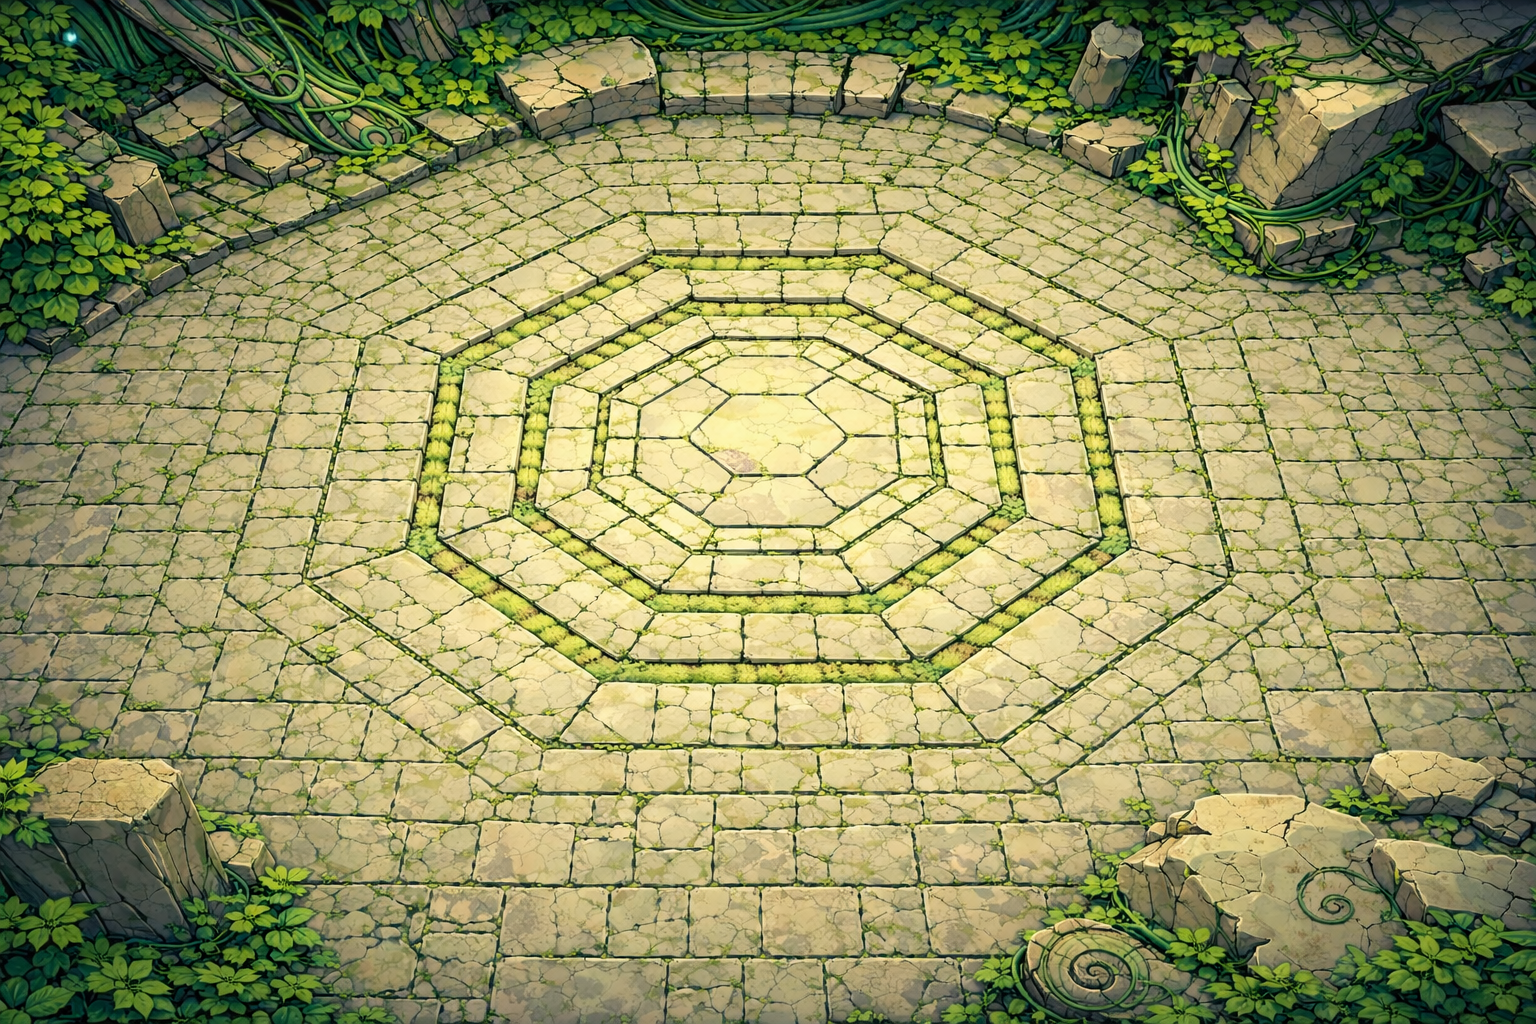
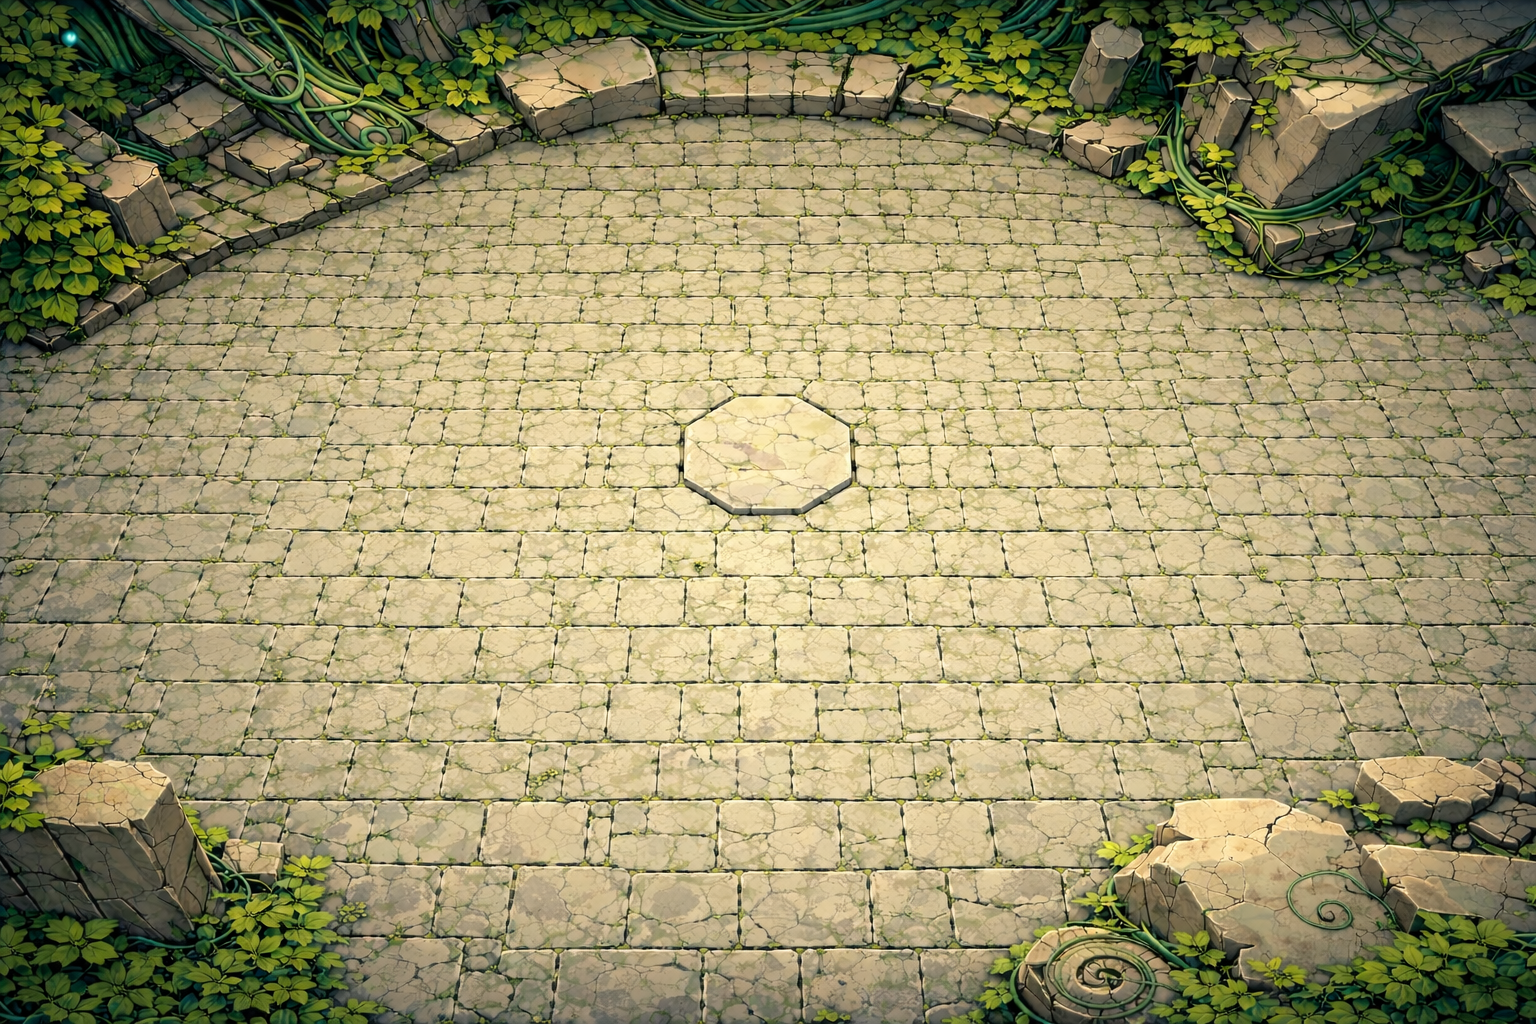
Checkpoint nice

diff --git a/src/three/ThreeBoardMode.js b/src/three/ThreeBoardMode.js
@@ -1,6 +1,9 @@
 import * as THREE from 'three';
 import { pieceCountState } from '../state/PieceCountState';
 
+import { Line2 } from 'three/examples/jsm/lines/Line2.js';
+import { LineMaterial } from 'three/examples/jsm/lines/LineMaterial.js';
+import { LineGeometry } from 'three/examples/jsm/lines/LineGeometry.js';
 /**
  * ThreeBoardMode
  * - Monta/desmonta un renderer de Three.js en un contenedor.
@@ -88,6 +91,15 @@ export default class ThreeBoardMode {
      *         black: { sprite: THREE.Sprite, canvas: HTMLCanvasElement, ctx: CanvasRenderingContext2D, texture: THREE.CanvasTexture } | null } | null}
      */
     this.counter3D = null;
+
+    /**
+     * Texturas cargadas para la cara superior de los Hex (aleatorias).
+     * @type {THREE.Texture[] | null}
+     */
+    this.hexTopTextures = null;
+
+     /** @type {LineMaterial | null} */
+    this.hexOutlineMat = null;
   }
 
   get isMounted() {
@@ -209,6 +221,14 @@ export default class ThreeBoardMode {
     this.renderer = new THREE.WebGLRenderer({ antialias: true, alpha: true });
     this.renderer.setPixelRatio(Math.min(window.devicePixelRatio || 1, 2));
     this.renderer.setSize(width, height);
+
+    // Color space correcto (para que las texturas se vean como el PNG)
+    if ('outputColorSpace' in this.renderer) this.renderer.outputColorSpace = THREE.SRGBColorSpace;
+    else this.renderer.outputEncoding = THREE.sRGBEncoding;
+
+    // Para que el color no se “cocine” por tone mapping/exposure
+    this.renderer.toneMapping = THREE.NoToneMapping;
+    this.renderer.toneMappingExposure = 1.0;
 
     // CLAVE: fondo transparente (para que se vea el background del contenedor si lo usas)
     this.renderer.setClearColor(0x000000, 0);
@@ -353,6 +373,9 @@ export default class ThreeBoardMode {
     this.camera.aspect = width / height;
     this.camera.updateProjectionMatrix();
     this.renderer.setSize(width, height);
+    if (this.hexOutlineMat) {
+      this.hexOutlineMat.resolution.set(width, height);
+    }
   }
 
   _tick() {
@@ -425,6 +448,129 @@ export default class ThreeBoardMode {
       metalness: 0.0,
     });
 
+    // Texturas (cara superior) desde JSON: folder + manifest
+    const textureFolder = config?.hex?.textureFolder ?? null;
+    const textureList = Array.isArray(config?.hex?.textures) ? config.hex.textures : [];
+
+    // --- Top overlay (SOLO cara superior) ---
+    // topGeo se comparte, PERO la textura se clona por hex para poder offset aleatorio
+    let topGeo = null;
+
+    if (textureFolder && textureList.length) {
+      const base = (import.meta?.env?.BASE_URL ?? '/');
+      const folder = textureFolder.startsWith('/') ? textureFolder.slice(1) : textureFolder;
+      const loader = new THREE.TextureLoader();
+
+      this.hexTopTextures = textureList
+        .filter((name) => typeof name === 'string' && name.trim().length)
+        .map((name) => {
+          const file = name.startsWith('/') ? name.slice(1) : name;
+          const url = `${base.endsWith('/') ? base : base + '/'}${folder}${folder.endsWith('/') ? '' : '/'}${file}`;
+          
+          const tex = loader.load(url);
+          if ('colorSpace' in tex) tex.colorSpace = THREE.SRGBColorSpace;
+          else tex.encoding = THREE.sRGBEncoding;
+
+          // No configurar wrap/repeat/mipmaps aquí.
+          // Aquí solo dejamos la textura "limpia" y hacemos calidad.
+          tex.wrapS = THREE.ClampToEdgeWrapping;
+          tex.wrapT = THREE.ClampToEdgeWrapping;
+
+          tex.generateMipmaps = true;
+          tex.minFilter = THREE.LinearMipmapLinearFilter;
+          tex.magFilter = THREE.LinearFilter;
+
+          if (this.renderer?.capabilities?.getMaxAnisotropy) {
+            tex.anisotropy = this.renderer.capabilities.getMaxAnisotropy();
+          }
+
+          tex.needsUpdate = true;
+
+          // Mejora fuerte en ángulos
+          if (this.renderer?.capabilities?.getMaxAnisotropy) {
+            tex.anisotropy = this.renderer.capabilities.getMaxAnisotropy();
+          }
+
+          return tex;
+        });
+
+      if (this.hexTopTextures.length) {
+        // Shape del hex (CON holes, para no tapar los Huecos)
+        const vertsTop = this._computeHexVerticesFlatTop2D(0, 0, sideLength);
+        const topShape = new THREE.Shape();
+        topShape.moveTo(vertsTop[0].x, vertsTop[0].y);
+        for (let i = 1; i < vertsTop.length; i++) topShape.lineTo(vertsTop[i].x, vertsTop[i].y);
+        topShape.closePath();
+
+        // Misma distribución de Huecos que el Hex superior
+        const holePointsTop = this._computeHolePoints2D({ sideLength, nodeRadius, nodeMargin });
+        for (const hp of holePointsTop) {
+          const hole = new THREE.Path();
+          hole.absellipse(hp.x, hp.y, nodeRadius, nodeRadius, 0, Math.PI * 2, false, 0);
+          topShape.holes.push(hole);
+        }
+
+        // ShapeGeometry viene en XY; la rotamos para que quede en XZ.
+        topGeo = new THREE.ShapeGeometry(topShape);
+        topGeo.rotateX(-Math.PI / 2);
+
+        // NORMALIZAR UVs (0..1) para que el PNG se vea fiel (sin estirarse/rararse)
+        topGeo.computeBoundingBox();
+        const bbTop = topGeo.boundingBox;
+        if (bbTop) {
+          const minX = bbTop.min.x, maxX = bbTop.max.x;
+          const minZ = bbTop.min.z, maxZ = bbTop.max.z;
+
+          const dx = Math.max(1e-6, maxX - minX);
+          const dz = Math.max(1e-6, maxZ - minZ);
+
+          const pos = topGeo.attributes.position;
+          const uvs = new Float32Array(pos.count * 2);
+
+          for (let i = 0; i < pos.count; i++) {
+            const x = pos.getX(i);
+            const z = pos.getZ(i);
+            uvs[i * 2 + 0] = (x - minX) / dx; // U
+            uvs[i * 2 + 1] = (z - minZ) / dz; // V
+          }
+
+          topGeo.setAttribute('uv', new THREE.BufferAttribute(uvs, 2));
+          topGeo.attributes.uv.needsUpdate = true;
+        }
+
+        topGeo.computeVertexNormals();
+      }
+    } else {
+      this.hexTopTextures = null;
+    }
+
+    const outlineWidth3D = config?.hex?.outlineWidth3D ?? 2;
+    const strokeColor = this._parseHexColor(config?.hex?.strokeColor ?? '#ffffff', 0xffffff);
+
+    // Material Line2 (grosor real)
+    this.hexOutlineMat = new LineMaterial({
+      color: strokeColor,
+      linewidth: outlineWidth3D, // en pixeles
+    });
+
+    // resolution inicial
+    const w = this.container?.clientWidth ?? window.innerWidth;
+    const h = this.container?.clientHeight ?? window.innerHeight;
+    this.hexOutlineMat.resolution.set(w, h);
+
+    // Geometría de contorno (HEX exterior). La reutilizamos para todas las celdas.
+    const outlineVerts2D = this._computeHexVerticesFlatTop2D(0, 0, sideLength);
+    const yOutline = hexHeight + 0.002; // un pelín arriba para evitar z-fighting con la tapa
+    const outlinePositions = [];
+    for (let i = 0; i < outlineVerts2D.length; i++) {
+      outlinePositions.push(outlineVerts2D[i].x, yOutline, outlineVerts2D[i].y);
+    }
+    // cerrar loop repitiendo el primero
+    outlinePositions.push(outlineVerts2D[0].x, yOutline, outlineVerts2D[0].y);
+
+    const outlineGeo = new LineGeometry();
+    outlineGeo.setPositions(outlinePositions);
+
     const baseHexColor = this._parseHexColor(
       config?.hex?.baseFillColor ?? '#151e2b',
       0x151e2b
@@ -476,6 +622,52 @@ export default class ThreeBoardMode {
           mesh.position.set(x, 0, z);
           mesh.userData = { cellId, q, r };
           group.add(mesh);
+
+          // Textura aleatoria SOLO en la cara superior (overlay)
+          if (topGeo && this.hexTopTextures && this.hexTopTextures.length) {
+            const idx = Math.floor(Math.random() * this.hexTopTextures.length);
+
+            // CLAVE: clonamos textura para poder offset distinto por Hex
+            const srcTex = this.hexTopTextures[idx];
+            const tex = srcTex.clone();
+            tex.needsUpdate = true;
+
+            // FIEL al PNG: sin zoom/recorte, sin offset aleatorio
+            tex.wrapS = THREE.ClampToEdgeWrapping;
+            tex.wrapT = THREE.ClampToEdgeWrapping;
+            tex.repeat.set(1, 1);
+            tex.offset.set(0, 0);
+
+            // --- Quitar granulado (mipmaps + anisotropy) ---
+            tex.generateMipmaps = true;
+            tex.minFilter = THREE.LinearMipmapLinearFilter;
+            tex.magFilter = THREE.LinearFilter;
+
+            if (this.renderer?.capabilities?.getMaxAnisotropy) {
+              tex.anisotropy = this.renderer.capabilities.getMaxAnisotropy();
+            }
+
+            tex.needsUpdate = true;
+
+            // Material unlit => colores casi iguales al PNG
+            const topMat = new THREE.MeshBasicMaterial({ map: tex });
+
+            const topMesh = new THREE.Mesh(topGeo, topMat);
+            topMesh.castShadow = false;
+            topMesh.receiveShadow = false;
+
+            // La ponemos apenas arriba de la tapa del hex para evitar z-fighting
+            topMesh.position.set(x, hexHeight + 0.12, z);
+            topMesh.userData = { cellId, q, r, isTopTexture: true, textureIndex: idx };
+            group.add(topMesh);
+          }
+
+          // Outline SOLO para Hex superior
+          const outline = new Line2(outlineGeo, this.hexOutlineMat);
+          outline.computeLineDistances();
+          outline.position.set(x, 0, z);
+          outline.userData = { cellId, q, r, isOutline: true };
+          group.add(outline);
 
           // Calcula “Huecos” lógicos (slots) para snap futuro
           const localHolePoints = this._computeHolePoints2D({ sideLength, nodeRadius, nodeMargin });
